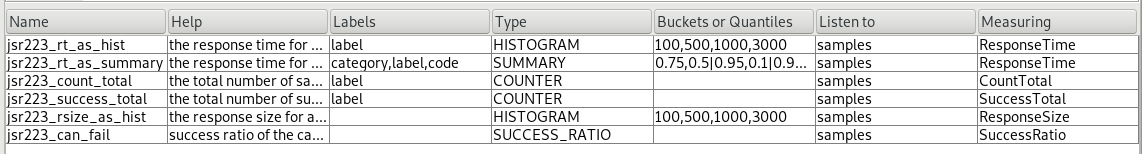
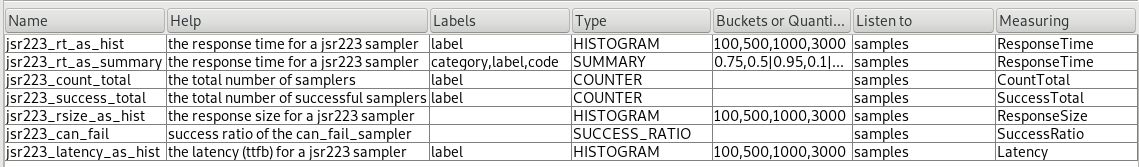
functionality for #50 listening to latency

diff --git a/src/test/java/com/github/johrstrom/listener/PrometheusListenerTest.java b/src/test/java/com/github/johrstrom/listener/PrometheusListenerTest.java
@@ -85,7 +85,7 @@ public class PrometheusListenerTest {
 		long connectTime = 3123;
 		long idleTime = 1233;
 		long elapsedTime = 2213;
-		long latency = 12;
+		long latency = 1532;
 		int responseSize = 1342;
 		int samplesOccured = 0;
 		
@@ -133,15 +133,20 @@ public class PrometheusListenerTest {
 	    	case "test_hist_rsize":
 	    		assertOnHistogram(reg.getOrCreateAndRegister(cfg), responseSize*samplesOccured, samplesOccured, responseSize);
 	    		break;
+	    	case "test_hist_latency":
+	    		assertOnHistogram(reg.getOrCreateAndRegister(cfg), latency*samplesOccured, samplesOccured, latency);
+	    		break;
 	    	case "test_summary_rtime":
 	    		assertOnSummary(reg.getOrCreateAndRegister(cfg), elapsedTime*samplesOccured, samplesOccured, elapsedTime);
 	    		break;	    
 	    	case "test_summary_rsize":
 	    		assertOnSummary(reg.getOrCreateAndRegister(cfg), responseSize*samplesOccured, samplesOccured, responseSize);
 	    		break;
-			
+	    	case "test_summary_latency":
+	    		assertOnSummary(reg.getOrCreateAndRegister(cfg), latency*samplesOccured, samplesOccured, latency);
+	    		break;
 			default:
-				Assert.assertTrue("shouldn't have made it here, untested switch case", false);
+				Assert.assertTrue( name + " triggered untested switch case", false);
 				break;
 			}
 		}
@@ -169,8 +174,9 @@ public class PrometheusListenerTest {
 			List<MetricFamilySamples> metrics = collector.collect();
 			Assert.assertTrue(metrics.size() == 1);
 			MetricFamilySamples family = metrics.get(0);
-			Assert.assertTrue(family.samples.size() == 7); 	// 4 buckets + Inf + count + sum
 			
+			// labels + Inf + count + sum
+			Assert.assertEquals(TestUtilities.EXPECTED_LABELS.length +4, family.samples.size());	
 			
 			for(Sample sample : family.samples) {
 				List<String> values = sample.labelValues;

diff --git a/src/main/java/com/github/johrstrom/listener/gui/ListenerCollectorTable.java b/src/main/java/com/github/johrstrom/listener/gui/ListenerCollectorTable.java
@@ -35,13 +35,7 @@ public class ListenerCollectorTable extends AbstractCollectorTable<ListenerColle
 		listenToComboBox.addItem("samples");
 		listenToComboBox.addItem("assertions");
 		
-		measuringComboBox = new JComboBox<>();
-		measuringComboBox.addItem(Measurable.ResponseTime.toString());
-		measuringComboBox.addItem(Measurable.ResponseSize.toString());
-		measuringComboBox.addItem(Measurable.SuccessTotal.toString());
-		measuringComboBox.addItem(Measurable.FailureTotal.toString());
-		measuringComboBox.addItem(Measurable.CountTotal.toString());
-		measuringComboBox.addItem(Measurable.SuccessRatio.toString());
+		measuringComboBox = measuringBox();
 	}
 	
 	public ListenerCollectorTable() {
@@ -104,6 +98,14 @@ public class ListenerCollectorTable extends AbstractCollectorTable<ListenerColle
 		editors.add(ComboBoxEditor.class);
 		
 		return editors.toArray(new Class<?>[editors.size()]);
+	}
+	
+	public static JComboBox<String> measuringBox() {
+		JComboBox<String> box = new JComboBox<String>();
+		for (Measurable value : Measurable.values()) {
+			box.addItem(value.toString());
+		}
+		return box;
 	}
 
 }

diff --git a/src/test/java/com/github/johrstrom/test/TestUtilities.java b/src/test/java/com/github/johrstrom/test/TestUtilities.java
@@ -166,6 +166,9 @@ public class TestUtilities {
     
     	cfg = redoNameAndMeasuring(cfg, "test_hist_rsize", Measurable.ResponseSize);
     	list.add(cfg);
+    	
+    	cfg = redoNameAndMeasuring(cfg, "test_hist_latency", Measurable.Latency);
+    	list.add(cfg);
     
     	// -------- summaries
     	cfg = new ListenerCollectorConfig(simpleSummaryCfg());
@@ -175,6 +178,8 @@ public class TestUtilities {
     	cfg = redoNameAndMeasuring(cfg, "test_summary_rsize", Measurable.ResponseSize);
     	list.add(cfg);
     	
+    	cfg = redoNameAndMeasuring(cfg, "test_summary_latency", Measurable.Latency);
+    	list.add(cfg);    	
     	
     	return list;
     }

diff --git a/src/main/java/com/github/johrstrom/listener/ListenerCollectorConfig.java b/src/main/java/com/github/johrstrom/listener/ListenerCollectorConfig.java
@@ -21,8 +21,12 @@ public class ListenerCollectorConfig extends BaseCollectorConfig {
 	}
 	
 	public enum Measurable {
+		// for aggregated type updater
 		ResponseTime,
 		ResponseSize,
+		Latency,
+		
+		// for count type updater
 		SuccessTotal,
 		FailureTotal,
 		CountTotal,

diff --git a/src/main/java/com/github/johrstrom/listener/PrometheusListener.java b/src/main/java/com/github/johrstrom/listener/PrometheusListener.java
@@ -180,6 +180,7 @@ public class PrometheusListener extends CollectorElement<ListenerCollectorConfig
 					break;
 				case ResponseSize:
 				case ResponseTime:
+				case Latency:
 					updater = new AggregatedTypeUpdater(config);
 					break;
 				default:

diff --git a/src/main/java/com/github/johrstrom/listener/updater/AggregatedTypeUpdater.java b/src/main/java/com/github/johrstrom/listener/updater/AggregatedTypeUpdater.java
@@ -51,6 +51,8 @@ public class AggregatedTypeUpdater extends AbstractUpdater {
 			return result.getBodySizeAsLong();
 		case ResponseTime:
 			return result.getTime();
+		case Latency:
+			return result.getLatency();
 		default:
 			return 0;
 		}

diff --git a/README.md b/README.md
@@ -73,6 +73,7 @@ This is a matrix of what metric types can measure what metrics.  If you configur
 |:-----:|:------:|:------:|:------:|:------:|:------:|
 | Response time  | x | x |   |   |   |
 | Response Size  | x | x |   |   |   |
+| Latency        | x | x |   |   |   |
 | Count total    |   |   | x |   |   |
 | Failure total  |   |   | x |   |   |
 | Success total  |   |   | x |   |   |
